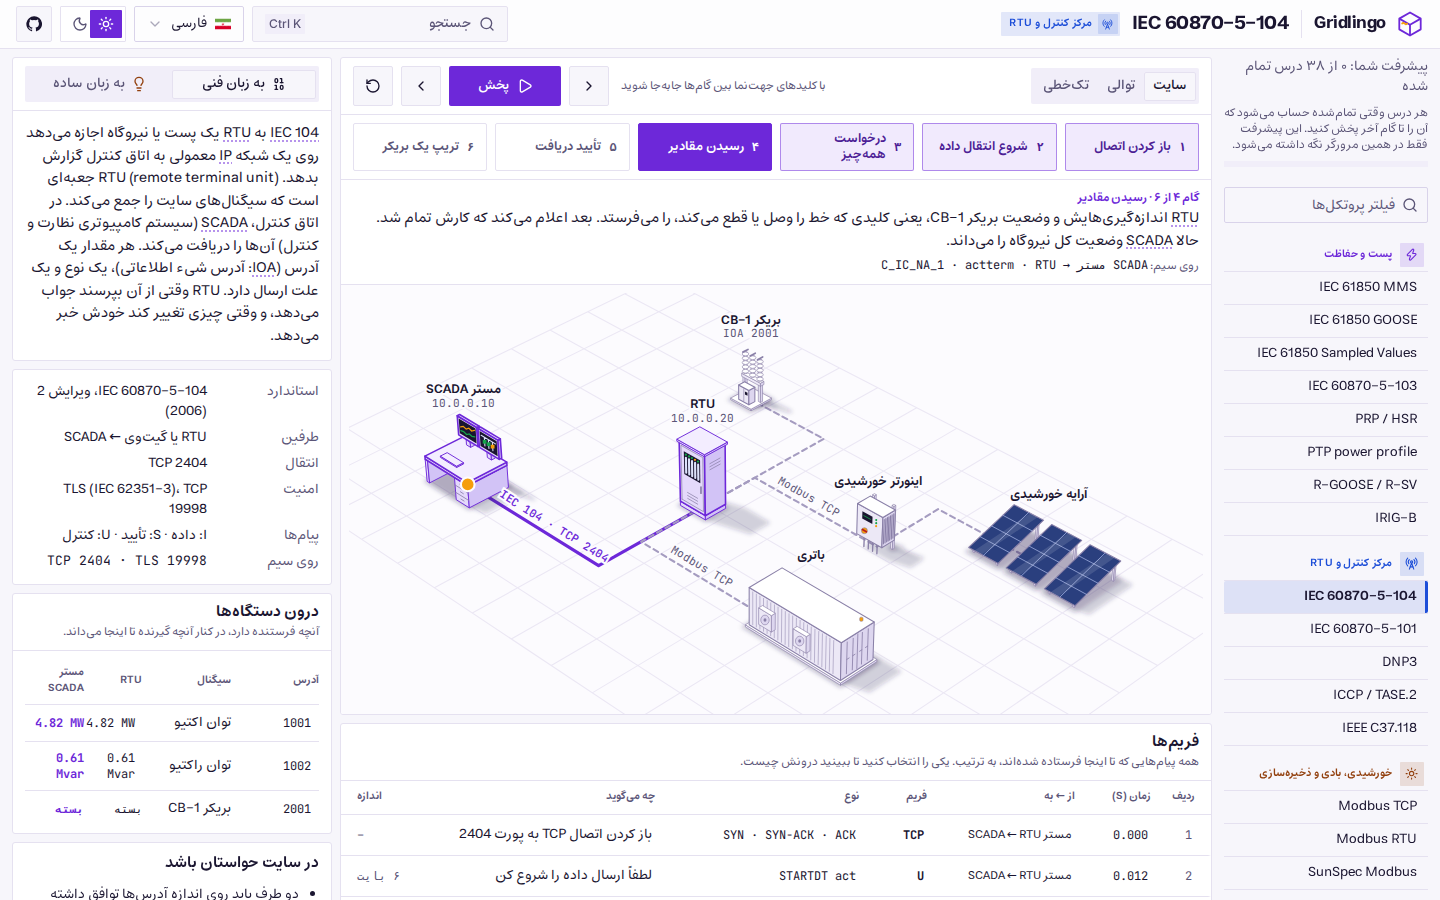
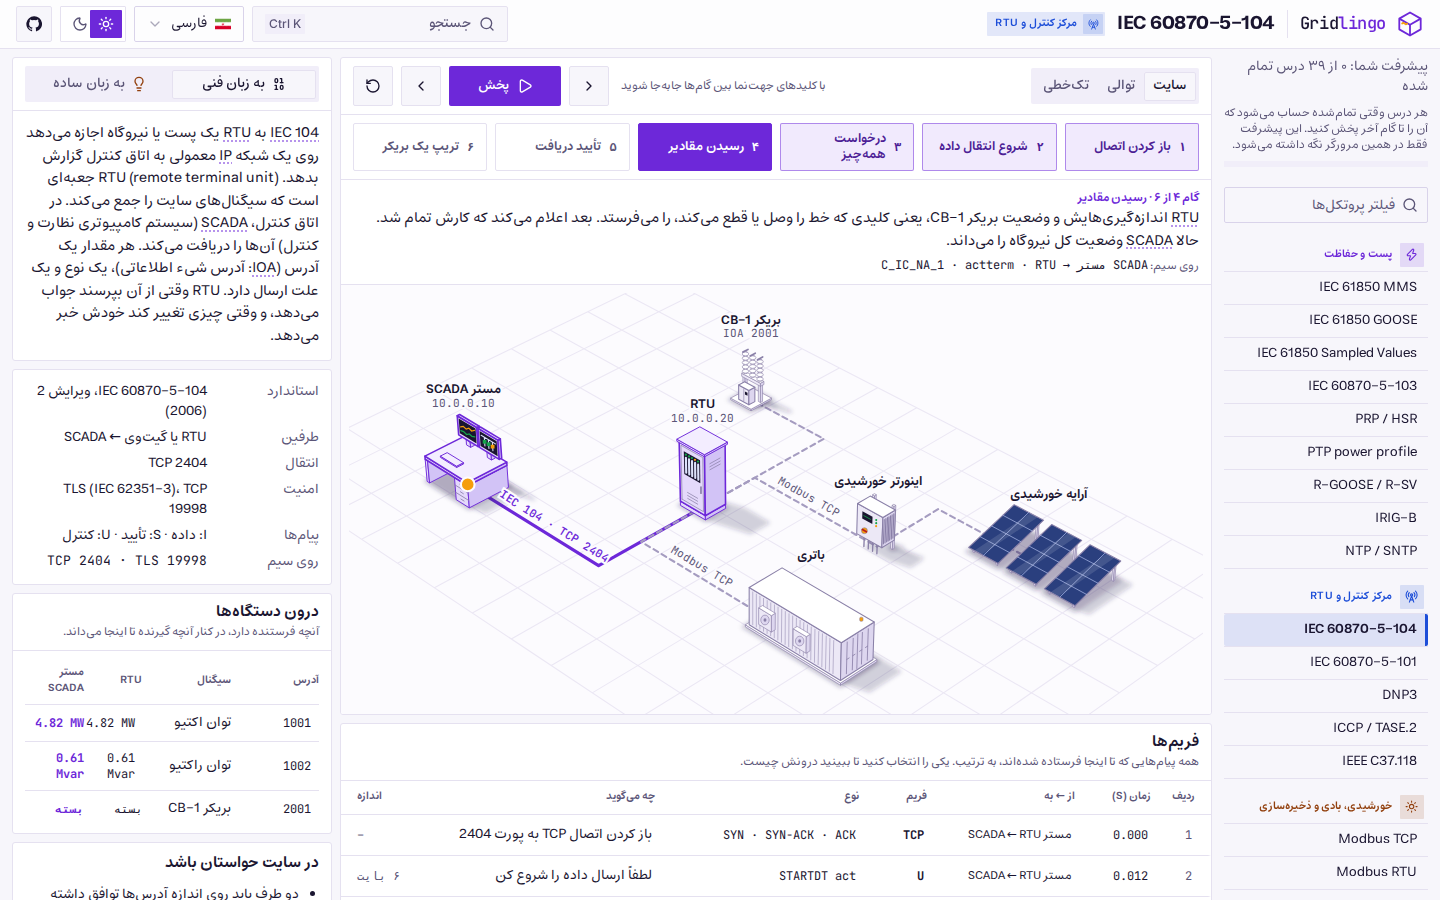
style(header): a monospace wordmark, set apart from the lesson title
"Gridlingo" in the header now uses the monospace face at medium weight,
with "lingo" in the primary colour, so it no longer looks like the bold
lesson title beside it. The README logos and the link-preview banner use
the same wordmark.

The banner script removed the last element of the hero to drop "Start
with"; since the home page links to the comparison page, that was the
link instead. It now removes both by name.

Pictures retaken: the README images, the banner and the full-page
screenshots that show the header.

diff --git a/src/layout/Header.tsx b/src/layout/Header.tsx
@@ -28,7 +28,10 @@ export function Header({ search = true }: { search?: boolean }) {
             <div className="flex h-12 items-center gap-2 px-3 sm:gap-3 sm:px-4">
                 <Link to="/" className="flex shrink-0 items-center gap-2.5 rounded-md outline-none focus-visible:ring-2 focus-visible:ring-ring">
                     <Logo className="size-7" />
-                    <span className="text-lg font-bold tracking-tight">Gridlingo</span>
+                    {/* The wordmark in the monospace face, lighter than the lesson title beside it */}
+                    <span className="font-mono text-[17px] font-medium tracking-tight">
+                        Grid<span className="text-primary">lingo</span>
+                    </span>
                 </Link>
                 {/* The open lesson's name and group, on wider screens; phones keep them on the page */}
                 {title && (
